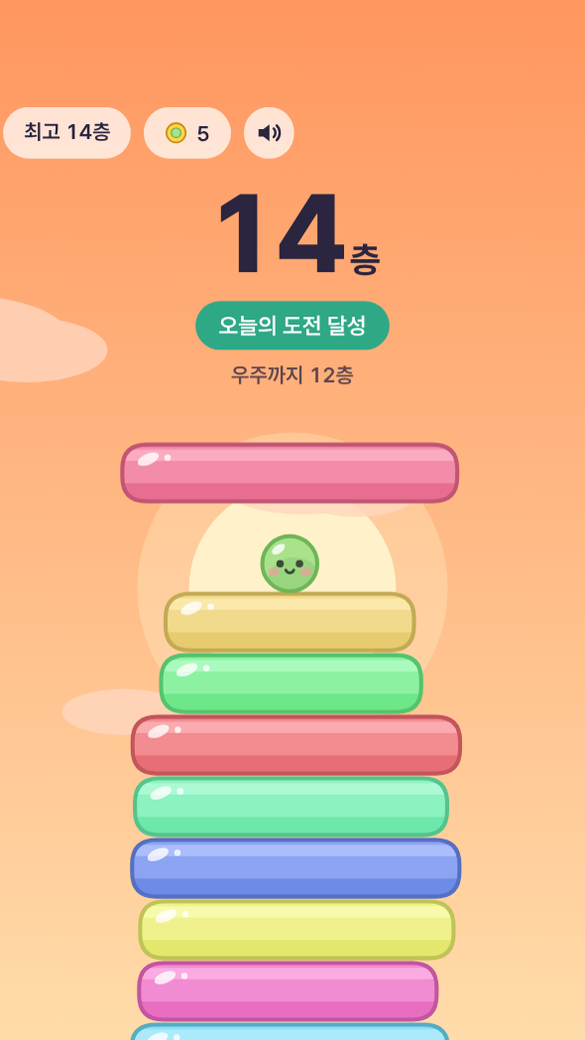
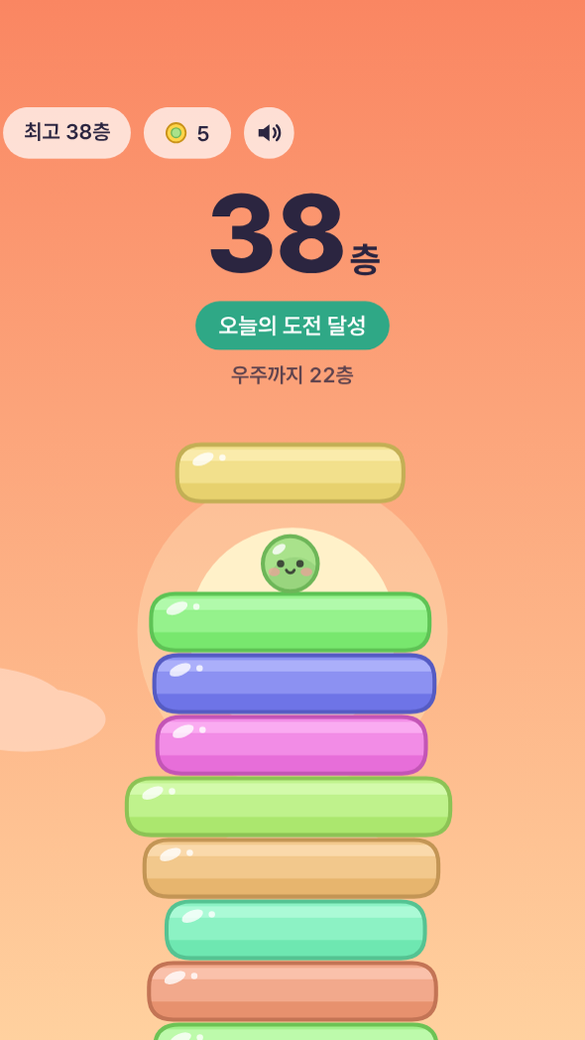
v5: 초반은 쉽게 오래 가는 난이도, 코인 5층마다·하루 3판, 하늘 단계 25/60층
- 친구 피드백(평균 8~13층에서 끝나 재미를 느끼기 전에 끔) 반영, 목표 보통 80층·잘하는 사람 100층+
- 판정 ±11%→±4%, 틀릴 때 감소 0.25→0.9배를 140층에 걸쳐 바꿈(TUNING, tuned())
- 2연속 딱부터 +10px 회복, 막대 속도 완만하게
- 노을 25층·우주 60층, 하늘 색은 skyFloor()로 새 층수에 맞춤, 헬멧도 같은 기준
- 코인 5층마다 1·딱 10번마다 1, 하루 첫 3판까지, 오늘의 도전 첫날 30층(20~200층)
- 등록 스크린샷·원스토어 스크린샷 갱신, 문서 갱신

Claude-Session: https://claude.ai/code/session_01HAryo8BdeanCWNXRxYGU2m

diff --git a/src/game/engine.ts b/src/game/engine.ts
@@ -9,7 +9,7 @@
  * - 블록마다 자라는 속도가 달라서 박자로 외울 수 없어요.
  */
 import type { HapticFeedbackType } from '@apps-in-toss/web-framework';
-import { BH, FONT, type Mood, clamp01, drawPea, drawPot, drawSky, drawSlab, isNightSky, roundRect, skyColors } from './draw';
+import { BH, FONT, type Mood, clamp01, drawPea, drawPot, drawSky, drawSlab, isNightSky, roundRect, skyColors, skyFloor } from './draw';
 import type { AccId, BeanId } from './cosmetics';
 import type { Sound } from './sound';
 
@@ -17,19 +17,29 @@ export type Phase = 'ready' | 'play' | 'over';
 export type Stage = 0 | 1 | 2; // 파란 하늘, 노을, 우주
 
 /** 단계가 바뀌는 층수 */
-export const STAGE_FLOORS = { sunset: 12, space: 26 } as const;
+export const STAGE_FLOORS = { sunset: 25, space: 60 } as const;
 
-/** 난이도. docs/LAUNCH.md 시뮬레이션 기준: 처음 하는 사람 ~13층, 보통 ~17층, 잘하는 사람 ~25층 */
+/**
+ * 난이도. 초반은 넉넉하게 시작해서 층이 올라갈수록 조금씩 빡빡해져요(TUNING.ramp층에서 최종값).
+ * 시뮬레이션(친구들 v4 실제 기록으로 실력 보정): 서툰 사람 ~70층, 보통 ~85층, 잘하는 사람 ~120층.
+ */
 export const TUNING = {
-  perfectRatio: 0.035, // 딱 판정: 아래층 폭의 ±3.5%
+  ramp: 140, // 이 층수에 걸쳐 아래 '시작 → 끝' 값으로 바뀌어요
+  perfectRatio: [0.11, 0.04], // 딱 판정: 아래층 폭의 ±11% → ±4%
   perfectMinPx: 3.5,
-  recoverAfter: 3, // 몇 번 연속 딱부터 폭이 회복되는지
-  recoverPx: 6,
-  missPenalty: 1.4, // 틀린 폭의 몇 배만큼 좁아지는지
-  speedBase: 140, // 막대가 자라는 속도(px/s)
-  speedPerFloor: 5,
-  speedMax: 400,
+  missPenalty: [0.25, 0.9], // 틀린 폭의 몇 배만큼 좁아지는지
+  recoverAfter: 2, // 몇 번 연속 딱부터 폭이 회복되는지
+  recoverPx: 10,
+  speedBase: 115, // 막대가 자라는 속도(px/s)
+  speedPerFloor: 1.2,
+  speedMax: 280,
 } as const;
+
+/** 층수 n에서의 값(시작 → 끝을 ramp층에 걸쳐 직선으로) */
+export function tuned(pair: readonly [number, number], n: number) {
+  const t = Math.min(1, Math.max(0, n / TUNING.ramp));
+  return pair[0] + (pair[1] - pair[0]) * t;
+}
 
 export interface GameCallbacks {
   onScore?: (score: number) => void;
@@ -242,7 +252,7 @@ export class PeaStackGame {
     const c = top.x + top.w / 2;
     const w = cur.w;
     const diff = w - top.w;
-    const tol = Math.max(TUNING.perfectMinPx, top.w * TUNING.perfectRatio);
+    const tol = Math.max(TUNING.perfectMinPx, top.w * tuned(TUNING.perfectRatio, n));
     const y = this.blockY(n);
 
     if (Math.abs(diff) <= tol) {
@@ -268,7 +278,7 @@ export class PeaStackGame {
       this.setMood('happy', 700);
     } else {
       const err = Math.abs(diff);
-      const nw = top.w - err * TUNING.missPenalty;
+      const nw = top.w - err * tuned(TUNING.missPenalty, n);
       this.combo = 0;
       const cut = (w - Math.max(0, nw)) / 2; // 양쪽 가장자리에서 부서지는 폭
       if (cut > 1) {
@@ -352,7 +362,7 @@ export class PeaStackGame {
     this.bgF += (this.score - this.bgF) * Math.min(1, dt * 2.5);
     this.shake *= Math.exp(-dt * 13);
 
-    const night = isNightSky(skyColors(this.bgF)[0]);
+    const night = isNightSky(skyColors(skyFloor(this.bgF))[0]);
     if (night !== this.night) {
       this.night = night;
       this.cb.onNight?.(night);
@@ -362,7 +372,7 @@ export class PeaStackGame {
   private render(t: number, dt: number) {
     const { ctx, W, H } = this;
     ctx.setTransform(this.dpr, 0, 0, this.dpr, 0, 0);
-    drawSky(ctx, W, H, this.bgF, t, this.cam);
+    drawSky(ctx, W, H, skyFloor(this.bgF), t, this.cam);
 
     ctx.save();
     if (!reduceMotion() && this.shake > 0.1) ctx.translate((Math.random() - 0.5) * this.shake, (Math.random() - 0.5) * this.shake);
@@ -383,7 +393,7 @@ export class PeaStackGame {
       const k = clamp01((t - tb.t) / 260);
       const py = this.blockY(i) + (1 - k) * BH - Math.sin(Math.PI * k) * 16;
       const mood: Mood = t < this.moodUntil ? this.mood : this.phase === 'over' ? 'shock' : 'calm';
-      drawPea(ctx, cx + tb.x + tb.w / 2, py, mood, this.bgF > 24, this.look);
+      drawPea(ctx, cx + tb.x + tb.w / 2, py, mood, skyFloor(this.bgF) > 24, this.look);
     }
 
     const cur = this.cur;

diff --git a/src/game/progress.ts b/src/game/progress.ts
@@ -5,15 +5,15 @@ export const dayKey = (d = new Date()) => `${d.getFullYear()}-${d.getMonth() + 1
 
 /**
  * 오늘의 도전 층수. 그 사람의 최고 기록에 맞춰 정해요.
- * - 처음에는 10층
- * - 그 뒤로는 최고 기록의 85% 근처에서, 날짜마다 -2~+3층씩 흔들려요
+ * - 처음에는 30층
+ * - 그 뒤로는 최고 기록의 85% 근처에서, 날짜마다 -4~+6층씩 흔들려요(20~200층)
  * - 하루 동안은 바뀌지 않도록 그날 처음 정한 값을 저장해 둬요
  */
 export function dailyTargetFor(best: number, d = new Date()) {
-  if (best <= 0) return 10;
+  if (best <= 0) return 30;
   const n = d.getFullYear() * 10000 + (d.getMonth() + 1) * 100 + d.getDate();
   const jitter = (((n * 9301 + 49297) % 233280) % 6) - 2;
-  return Math.max(8, Math.min(80, Math.round(best * 0.85) + jitter));
+  return Math.max(20, Math.min(200, Math.round(best * 0.85) + jitter * 2));
 }
 
 export interface Progress {
@@ -79,10 +79,10 @@ export function touchStreak(p: Progress): Progress {
 
 /* ---------- 코인 ---------- */
 export const COIN_RULES = {
-  floorsPerCoin: 3, // 3층마다 1개
-  perPerfect: 1, // 딱 맞출 때마다 추가로
+  floorsPerCoin: 5, // 5층마다 1개
+  perfectsPerCoin: 10, // 딱 10번마다 1개 추가
   dailyBonus: 20, // 오늘의 도전 달성(하루 한 번, 판 수 제한과 별개)
-  runsPerDay: 2, // 층·딱 코인은 하루 첫 2판만
+  runsPerDay: 3, // 층·딱 코인은 하루 첫 3판만
 } as const;
 
 /** 오늘 층·딱 코인을 더 받을 수 있는 판 수 */
@@ -97,9 +97,9 @@ export function spendCoinRun(p: Progress, today = dayKey()): Progress {
   return { ...p, coinDay: today, coinRuns: used + 1 };
 }
 
-/** 한 판에서 받는 코인. earns가 false면(오늘 2판을 다 썼으면) 오늘의 도전 보상만 받아요. */
+/** 한 판에서 받는 코인. earns가 false면(오늘 코인 판을 다 썼으면) 오늘의 도전 보상만 받아요. */
 export function coinsForRun(r: { score: number; perfects: number; dailyCleared: boolean; earns: boolean }) {
-  const play = r.earns ? Math.floor(r.score / COIN_RULES.floorsPerCoin) + r.perfects * COIN_RULES.perPerfect : 0;
+  const play = r.earns ? Math.floor(r.score / COIN_RULES.floorsPerCoin) + Math.floor(r.perfects / COIN_RULES.perfectsPerCoin) : 0;
   return play + (r.dailyCleared ? COIN_RULES.dailyBonus : 0);
 }
 

diff --git a/src/game/draw.ts b/src/game/draw.ts
@@ -10,7 +10,30 @@ export type Mood = 'calm' | 'happy' | 'shock';
 export const clamp01 = (v: number) => Math.max(0, Math.min(1, v));
 const mix = (a: RGB, b: RGB, k: number): RGB => [0, 1, 2].map((i) => Math.round(a[i] + (b[i] - a[i]) * k)) as RGB;
 
-/* 하늘 3단계: 파란 하늘(0~8층) → 주황 노을(14~20층) → 우주(28층~) */
+/**
+ * 하늘 색은 '하늘 층' 기준으로 그려요(파란 하늘 0~8 → 노을 14~20 → 우주 28~).
+ * 실제 층수는 skyFloor()로 이 기준에 맞춰 바꿔요: 노을이 25층, 우주가 60층쯤에 오도록.
+ */
+const SKY_MAP: [number, number][] = [
+  [0, 0],
+  [25, 12],
+  [60, 26],
+  [120, 60],
+];
+
+/** 실제 층수(소수 가능) → 하늘 그림 기준 층수 */
+export function skyFloor(n: number) {
+  for (let i = 0; i < SKY_MAP.length - 1; i++) {
+    const [a, fa] = SKY_MAP[i];
+    const [b, fb] = SKY_MAP[i + 1];
+    if (n <= b) return fa + ((n - a) / (b - a)) * (fb - fa);
+  }
+  const [a, fa] = SKY_MAP[SKY_MAP.length - 2];
+  const [b, fb] = SKY_MAP[SKY_MAP.length - 1];
+  return fb + ((n - b) / (b - a)) * (fb - fa);
+}
+
+/* 하늘 3단계: 파란 하늘(0~8) → 주황 노을(14~20) → 우주(28~), '하늘 층' 기준 */
 const STOPS: [number, RGB, RGB][] = [
   [0, [120, 200, 255], [225, 245, 255]],
   [8, [120, 200, 255], [225, 245, 255]],

diff --git a/src/App.tsx b/src/App.tsx
@@ -257,7 +257,7 @@ export default function App() {
     const p = progressRef.current;
     runRef.current = { awarded: 0, doubled: false, earns: p ? coinRunsLeft(p) > 0 : true, counted: false, streak };
     setDoubled(false);
-    game.start({ dailyTarget: p?.dailyTarget ?? 10, dailyDone: p?.dailyDoneOn === dayKey() });
+    game.start({ dailyTarget: p?.dailyTarget ?? 30, dailyDone: p?.dailyDoneOn === dayKey() });
     if (DEMO_FLOORS > 0) game.debugBuild(DEMO_FLOORS);
     setOver(null);
     setScreen('play');
@@ -443,9 +443,9 @@ export default function App() {
               {over.earns
                 ? over.runsLeft > 0
                   ? `오늘 코인 받는 판 ${over.runsLeft}번 남았어요`
-                  : '오늘 코인 받는 판을 다 썼어요. 내일 다시 2판!'
+                  : `오늘 코인 받는 판을 다 썼어요. 내일 다시 ${COIN_RULES.runsPerDay}판!`
                 : dailyDone
-                  ? '내일 다시 2판 동안 코인을 받아요'
+                  ? `내일 다시 ${COIN_RULES.runsPerDay}판 동안 코인을 받아요`
                   : `오늘의 도전을 달성하면 ${COIN_RULES.dailyBonus}코인은 받을 수 있어요`}
             </p>
             {canRevive && (

diff --git a/src/game/cosmetics.ts b/src/game/cosmetics.ts
@@ -30,7 +30,8 @@ export interface AccStyle {
 }
 
 /*
- * 가격 기준: 코인은 하루 첫 2판(판당 보통 6~8개)과 오늘의 도전(20개)으로 하루 30개 남짓 모여요.
+ * 가격 기준: 코인은 하루 첫 3판(5층마다 1개, 딱 10번마다 1개, 판당 보통 20개 안팎)과
+ * 오늘의 도전(20개), 출석(5개)으로 하루 80~90개쯤 모여요.
  * 싼 건 하루 이틀, 중간은 일주일쯤, 무지개콩·왕관(1000)은 한 달쯤 모아야 하는 목표예요.
  */
 export const BEANS: BeanStyle[] = [

diff --git a/README.md b/README.md
@@ -22,15 +22,16 @@
 ## 게임 규칙
 
 - 누르는 동안 막대가 양옆으로 자라고, 손을 떼면 내려앉습니다.
-- 아래층과 폭이 같으면(오차 3.5% 이내) "딱!", 3번 연속부터는 딱마다 폭이 6px씩 회복됩니다.
-- 틀리면 틀린 폭의 1.4배만큼 탑이 좁아집니다. 난이도 숫자는 `src/game/engine.ts`의 `TUNING`에 모여 있습니다.
+- 아래층과 폭이 같으면 "딱!". 판정은 초반 ±11%로 넉넉하고 140층에 걸쳐 ±4%까지 좁아져요.
+  2번 연속 딱부터 딱마다 폭이 10px씩 회복. 틀리면 틀린 폭의 0.25배(초반)~0.9배(140층)만큼 좁아져요.
+  시뮬레이션(친구들 실제 기록으로 보정): 서툰 사람 ~70층, 보통 ~85층, 잘하는 사람 ~120층. 숫자는 `engine.ts`의 `TUNING`.
 - 탑이 16px보다 가늘어지거나 아래층의 1.9배까지 누르고 있으면 끝납니다.
 - 누르는 동안 음이 올라가고, 폭이 딱 맞는 순간의 음 높이(라, 440Hz)는 항상 같습니다.
-- 하늘 3단계: 파란 하늘 → 노을(12층) → 우주(26층).
-- 오늘의 도전: 처음엔 10층, 이후 최고 기록의 85% 근처(날짜마다 -2~+3층). 하루 동안은 고정.
-- 코인: 3층마다 1, 딱마다 1. **층·딱 코인은 하루 첫 2판만** 받아요(3판째부터는 0).
+- 하늘 3단계: 파란 하늘 → 노을(25층) → 우주(60층).
+- 오늘의 도전: 처음엔 30층, 이후 최고 기록의 85% 근처(날짜마다 -4~+6층, 20~200층). 하루 동안은 고정.
+- 코인: 5층마다 1, 딱 10번마다 1. **층·딱 코인은 하루 첫 3판만** 받아요(4판째부터는 0). 보통 판당 20개 안팎.
   오늘의 도전 달성 20은 판 수와 상관없이 하루 한 번. 하루 30개 남짓 모여요.
-  출석 보상: 그날 첫 판 시작 때 +5, 연속 7일째마다 +20 더. 0층에서 끝난 판은 2판에 세지 않음.
+  출석 보상: 그날 첫 판 시작 때 +5, 연속 7일째마다 +20 더. 0층에서 끝난 판은 코인 판으로 세지 않음.
   결과 화면에서 광고를 보면 그 판 코인 2배. 규칙 숫자는 `src/game/progress.ts`의 `COIN_RULES`.
 - 꾸미기: 콩 12종, 소품 13종(+없음). 뽑기 없이 코인으로 바로 구매. 목록과 가격은 `src/game/cosmetics.ts`.
   - 콩: 완두콩(기본) 메주콩 30, 녹두 40, 팥 60, 땅콩 80, 강낭콩 100, 민트콩 120, 검은콩 150, 하늘콩 180, 솜사탕콩 220, 황금콩 300, 무지개콩 450

diff --git a/docs/PROGRESS.md b/docs/PROGRESS.md
@@ -2,6 +2,17 @@
 
 다음에 이어서 작업할 때 이 파일부터 보세요. 최신 내용이 위에 있어요.
 
+## 2026-11-18 (v5): 초반 쉽게, 오래 가는 게임으로
+- 친구 피드백: v4는 평균 8~13층에서 끝나서 재미를 느끼기 전에 끔(무한의 계단처럼 오래 가다 아쉽게 끝나야 함)
+- 목표: 보통 80층, 잘하는 사람 100층 이상
+- 난이도를 층수에 따라 바뀌게(`TUNING`, `tuned()`): 판정 ±11%→±4%, 틀릴 때 감소 0.25배→0.9배(140층에 걸쳐),
+  2연속 딱부터 +10px 회복, 막대 속도 115px/s + 층당 1.2(최대 280)
+- 시뮬레이션 보정: v4 실제 기록(보통 8~13층, 잘함 ~20층)에 맞춘 실력 모델로 계산 → 서툼 ~72층, 보통 ~86층, 잘함 ~120층
+- 하늘: 노을 25층, 우주 60층(`STAGE_FLOORS`), 하늘 색은 `skyFloor()`로 새 층수에 맞춰 늘림
+- 코인: 5층마다 1개 + 딱 10번마다 1개, 하루 첫 3판까지. 판당 보통 ~22개, 하루 ~90개(출석·도전 포함)
+- 오늘의 도전: 첫날 30층, 이후 최고 기록 85% 근처(20~200층)
+- 등급분류 조회 완료: 게임위 자체등급분류 **ONIA-SG-261117-0003**, 2026-11-17, 캐주얼, 전체이용가
+
 ## 2026-11-17 오후: 등급분류를 원스토어 AI Game(웹)으로
 - 원스토어 정책상 AI 도구로 만든 게임은 'AI를 활용한 게임: 예' → Web 상품으로만 등록 가능. APK 경로는 쓰지 않음
 - 원스토어 상품 등록 완료: Web AID OH01012863

diff --git a/docs/LAUNCH.md b/docs/LAUNCH.md
@@ -135,7 +135,7 @@ npm run build      # dist/ 빌드 + pea-stack.ait 생성
 | 광고 보고 코인 2배 → 끝까지 보면 코인이 늘어난다 | 결과 화면 |
 | 꾸미기에서 산 콩·소품이 앱을 껐다 켜도 남아 있다 | 꾸미기 |
 | 하루 3판째부터 층·딱 코인이 안 들어오고 '오늘 코인은 다 받았어요'가 뜬다 | 결과 화면 |
-| 다음 날 다시 2판 코인을 받는다(시작 화면 동전 2개가 다시 채워짐) | 시작 화면 |
+| 다음 날 다시 3판 코인을 받는다(시작 화면 동전 3개가 다시 채워짐) | 시작 화면 |
 | 그날 첫 판 결과에 '오늘 출석 +5', 7일 연속이면 '7일 연속 출석 +25' | 결과 화면 |
 | 누르는 중에 홈으로 나갔다 오면 막대가 놓이지 않고 다시 누를 수 있다 | 플레이 중 |
 
